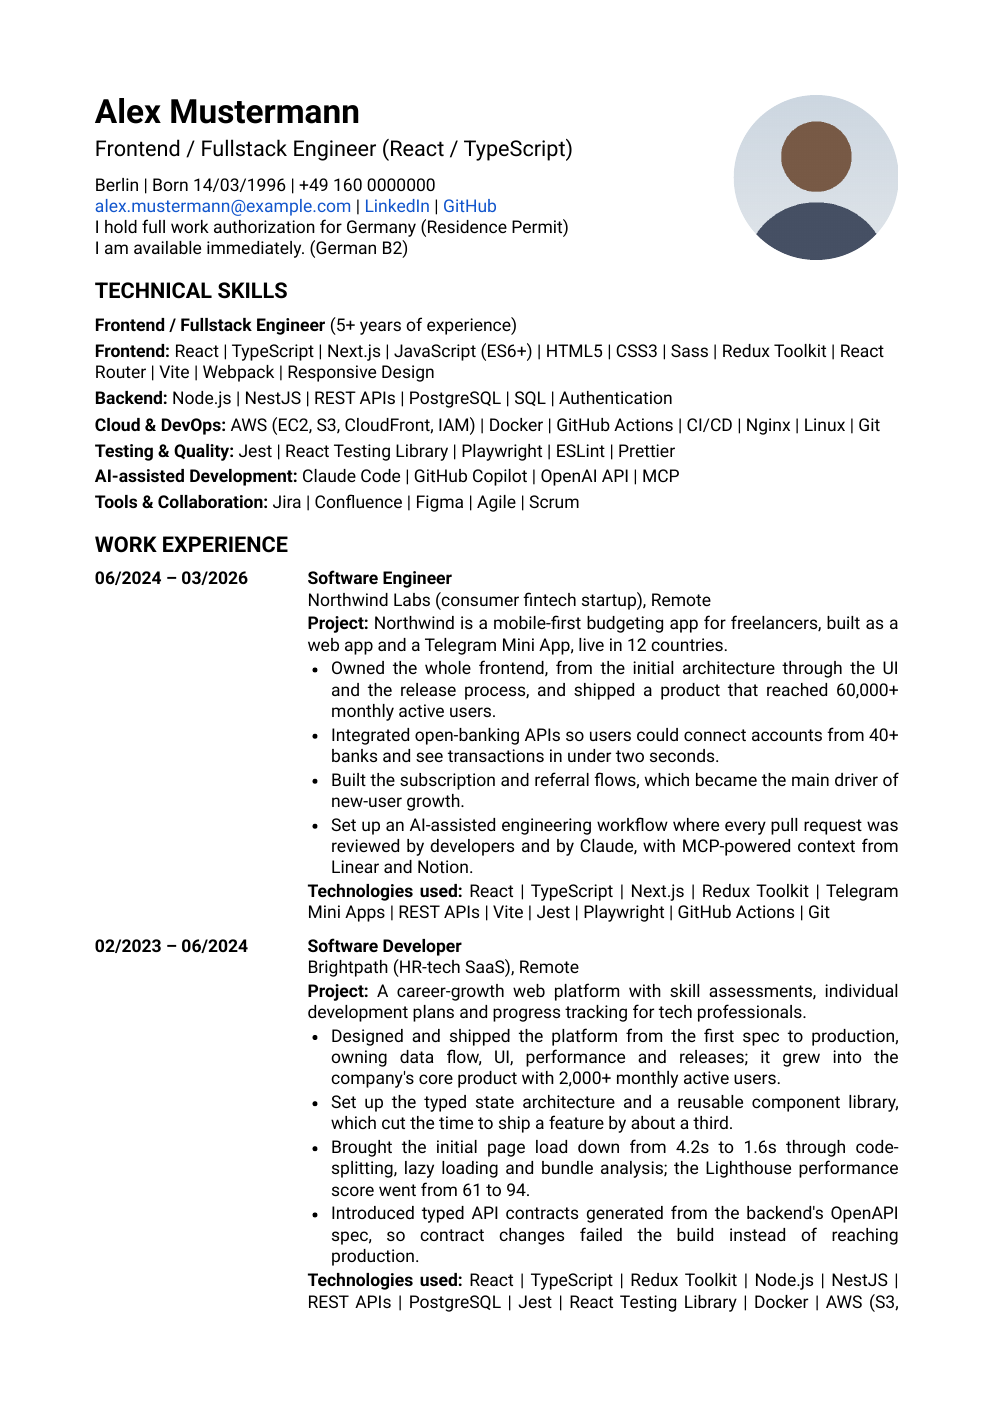
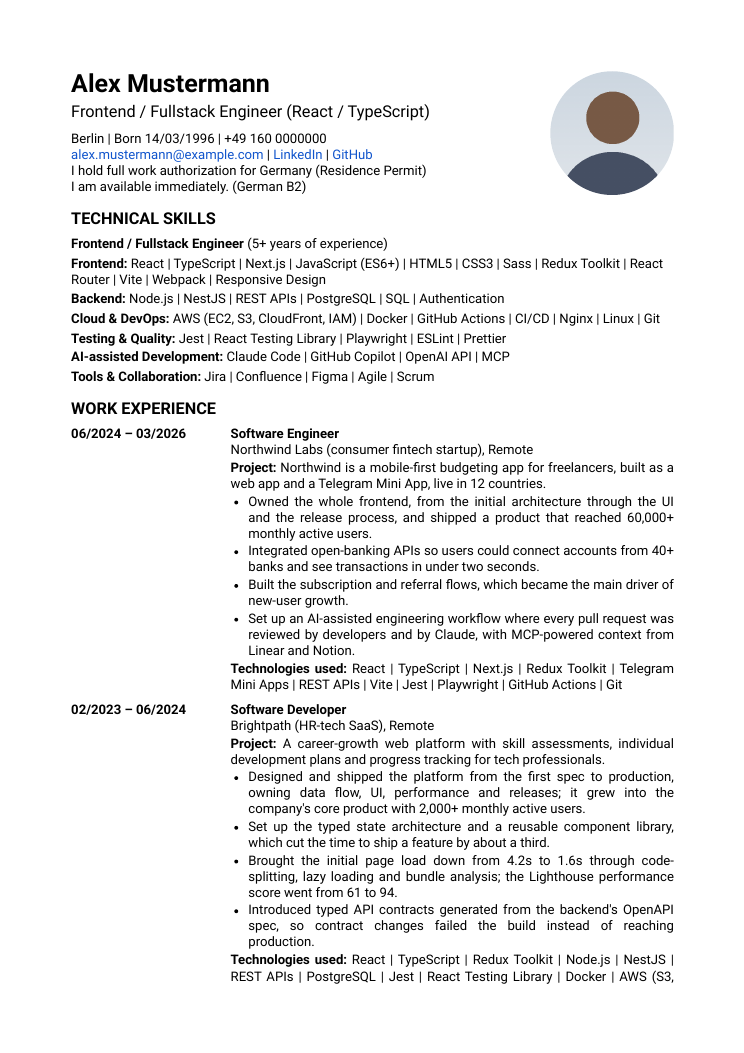
Re-render the README CV preview at 90 dpi to stay under 256 KB

diff --git a/README.md b/README.md
@@ -117,7 +117,7 @@ fonts/               Roboto (Apache 2.0)
 GLOSSARY.md          the vocabulary
 ```
 
-`npm test` renders the examples and checks the PDFs. `npm run lint` checks the skills and that every image the README embeds is committed. The CV preview above is `pdftoppm -png -r 120 -f 1 -l 1 -singlefile examples/cv/Alex_Mustermann_CV.pdf examples/cv/Alex_Mustermann_CV-preview`; rerun it when the example CV changes.
+`npm test` renders the examples and checks the PDFs. `npm run lint` checks the skills and that every image the README embeds is committed. The CV preview above is `pdftoppm -png -r 90 -f 1 -l 1 -singlefile examples/cv/Alex_Mustermann_CV.pdf examples/cv/Alex_Mustermann_CV-preview` (90 dpi keeps it under the plugin scanner's 256 KB limit); rerun it when the example CV changes.
 
 ## License
 
